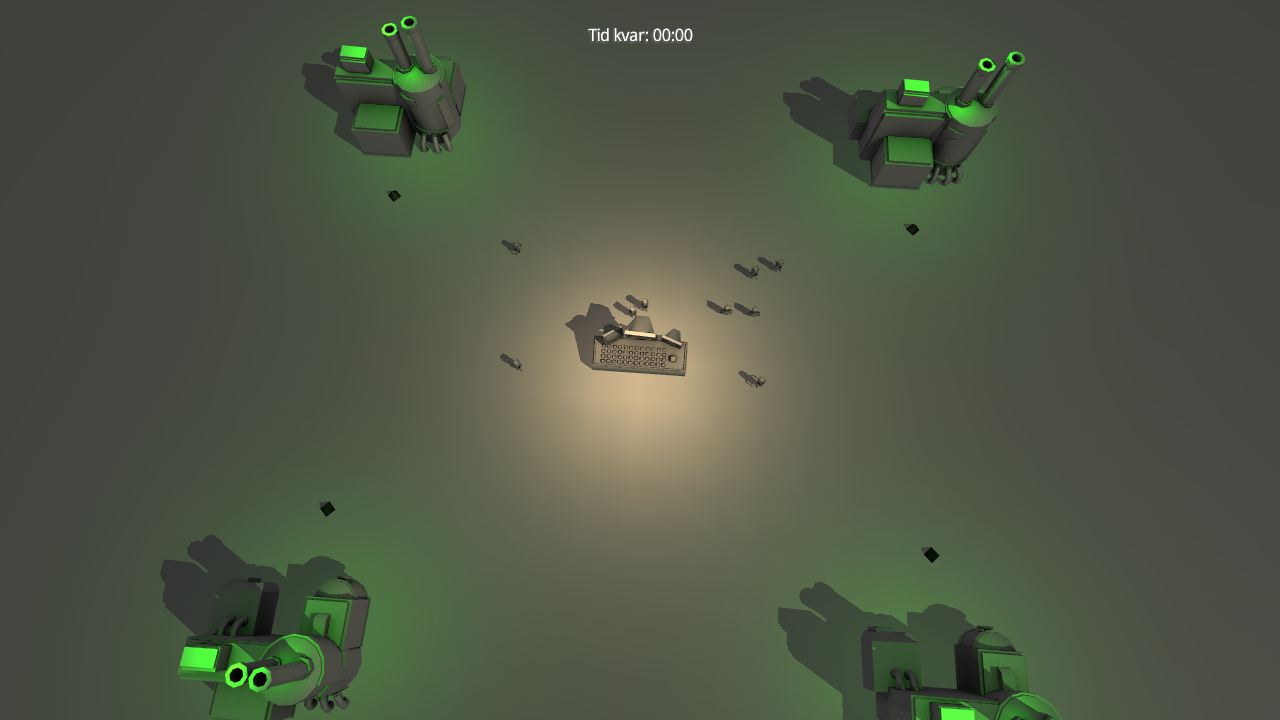
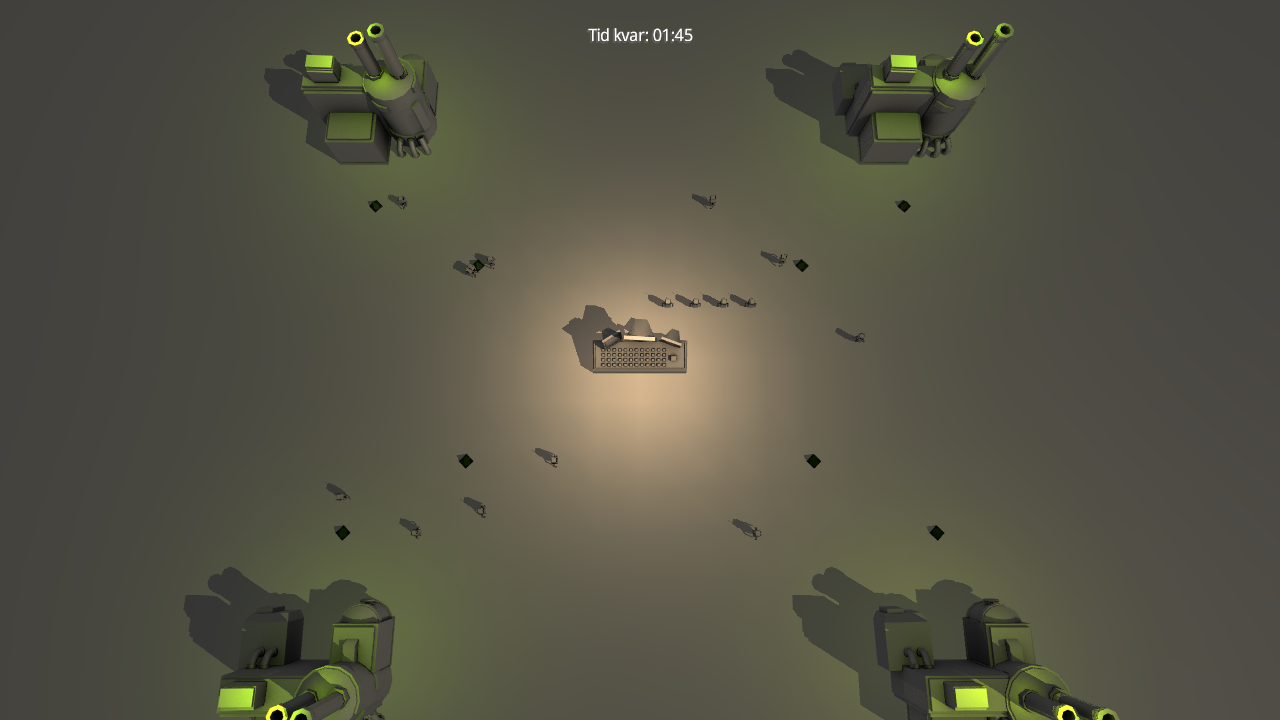
Timers now reset and when going out of ingamestate they will sleep

diff --git a/Project/core/src/com/projectdgdx/game/utils/Timer.java b/Project/core/src/com/projectdgdx/game/utils/Timer.java
@@ -1,6 +1,7 @@
 package com.projectdgdx.game.utils;
 
 import java.util.ArrayList;
+import java.util.List;
 
 /**
  * Created by Emil Jansson on 2017-05-04.
@@ -9,6 +10,53 @@ public class Timer implements Runnable{
     private ArrayList<iTimerListener> listeners = new ArrayList<iTimerListener>();
     private int timerValue;
     private long ticTime;
+    private Thread thread;
+
+    private static boolean isPaused = false;
+
+    private static List<Timer> timers = new ArrayList<>();
+
+    private static void addTimer(Timer timer) {
+        timers.add(timer);
+    }
+
+    private static void removeTimer(Timer timer) {
+        timers.remove(timer);
+    }
+
+    public static void pauseTimers() {
+        isPaused = true;
+        for(Timer timer : timers) {
+            timer.pause();
+        }
+    }
+
+    public static void resumeTimers() {
+        isPaused = false;
+        for(Timer timer : timers) {
+            timer.resume();
+        }
+    }
+
+    public static void removeTimers() {
+        for(Timer timer : timers) {
+            timer.stop();
+        }
+        timers.clear();
+    }
+
+    public synchronized void pause() {
+        thread.interrupt();
+    }
+
+    public synchronized void resume() {
+        thread = new Thread(this);
+        thread.start();
+    }
+
+    public synchronized void stop() {
+        thread.interrupt();
+    }
 
     public Timer(int timerValue, long ticTime){
         this.timerValue = timerValue;
@@ -43,20 +91,31 @@ public class Timer implements Runnable{
     }
 
     public void start(){
-        Thread thread = new Thread(this);
-        thread.start();
+        if(!isPaused) {
+            thread = new Thread(this);
+            thread.start();
+        }
+        addTimer(this);
     }
 
 
     @Override
     public void run() {
         while (this.timerValue > 0){
-            try {
-                //wait(this.ticTime);
-                Thread.sleep(this.ticTime);
-            }catch(Exception e){}
-            this.timerValue--;
+                try {
+//                    System.out.println("Tick: " + this.timerValue);
+                    Thread.sleep(this.ticTime);
+                }catch(InterruptedException e){
+//                    System.out.println("Thread has been interrupted");
+                    return;
+                }
+                this.timerValue--;
         }
-        notifyListenersTimeUp();
+        if(!Thread.interrupted()) {
+            notifyListenersTimeUp();
+            removeTimer(this);
+//            System.out.println(listeners.get(0).toString());
+        }
+
     }
 }

diff --git a/Project/core/src/com/projectdgdx/game/controller/InGameState.java b/Project/core/src/com/projectdgdx/game/controller/InGameState.java
@@ -377,6 +377,10 @@ public class InGameState implements iGameState, iTimerListener, iEventListener {
 		objectsMap = new HashMap<>();
 		createCamera();
 
+		//Remove all existing timers
+		System.out.println("INIT!");
+		Timer.removeTimers();
+
 		//Parse and create map
 		MapParser parser = new MapParser();
 		map = parser.parse(Config.LEVEL_IN_PLAY);
@@ -410,9 +414,10 @@ public class InGameState implements iGameState, iTimerListener, iEventListener {
 	@Override
 	public void start(ProjectD projectD) {
 		updateCamera(projectD);
-
 		renderer = new RenderManager();
 		renderer.init(lightList);
+		Timer.resumeTimers();
+		//TODO rename this method
 		initTimer();
 	}
 
@@ -420,6 +425,7 @@ public class InGameState implements iGameState, iTimerListener, iEventListener {
 	public void stop(ProjectD projectD) {
 		projectD.getInpuControllers().get(0).getModel().resetButtonCounts();
 		lightList.clear();
+		Timer.pauseTimers();
 	}
 
 	@Override
